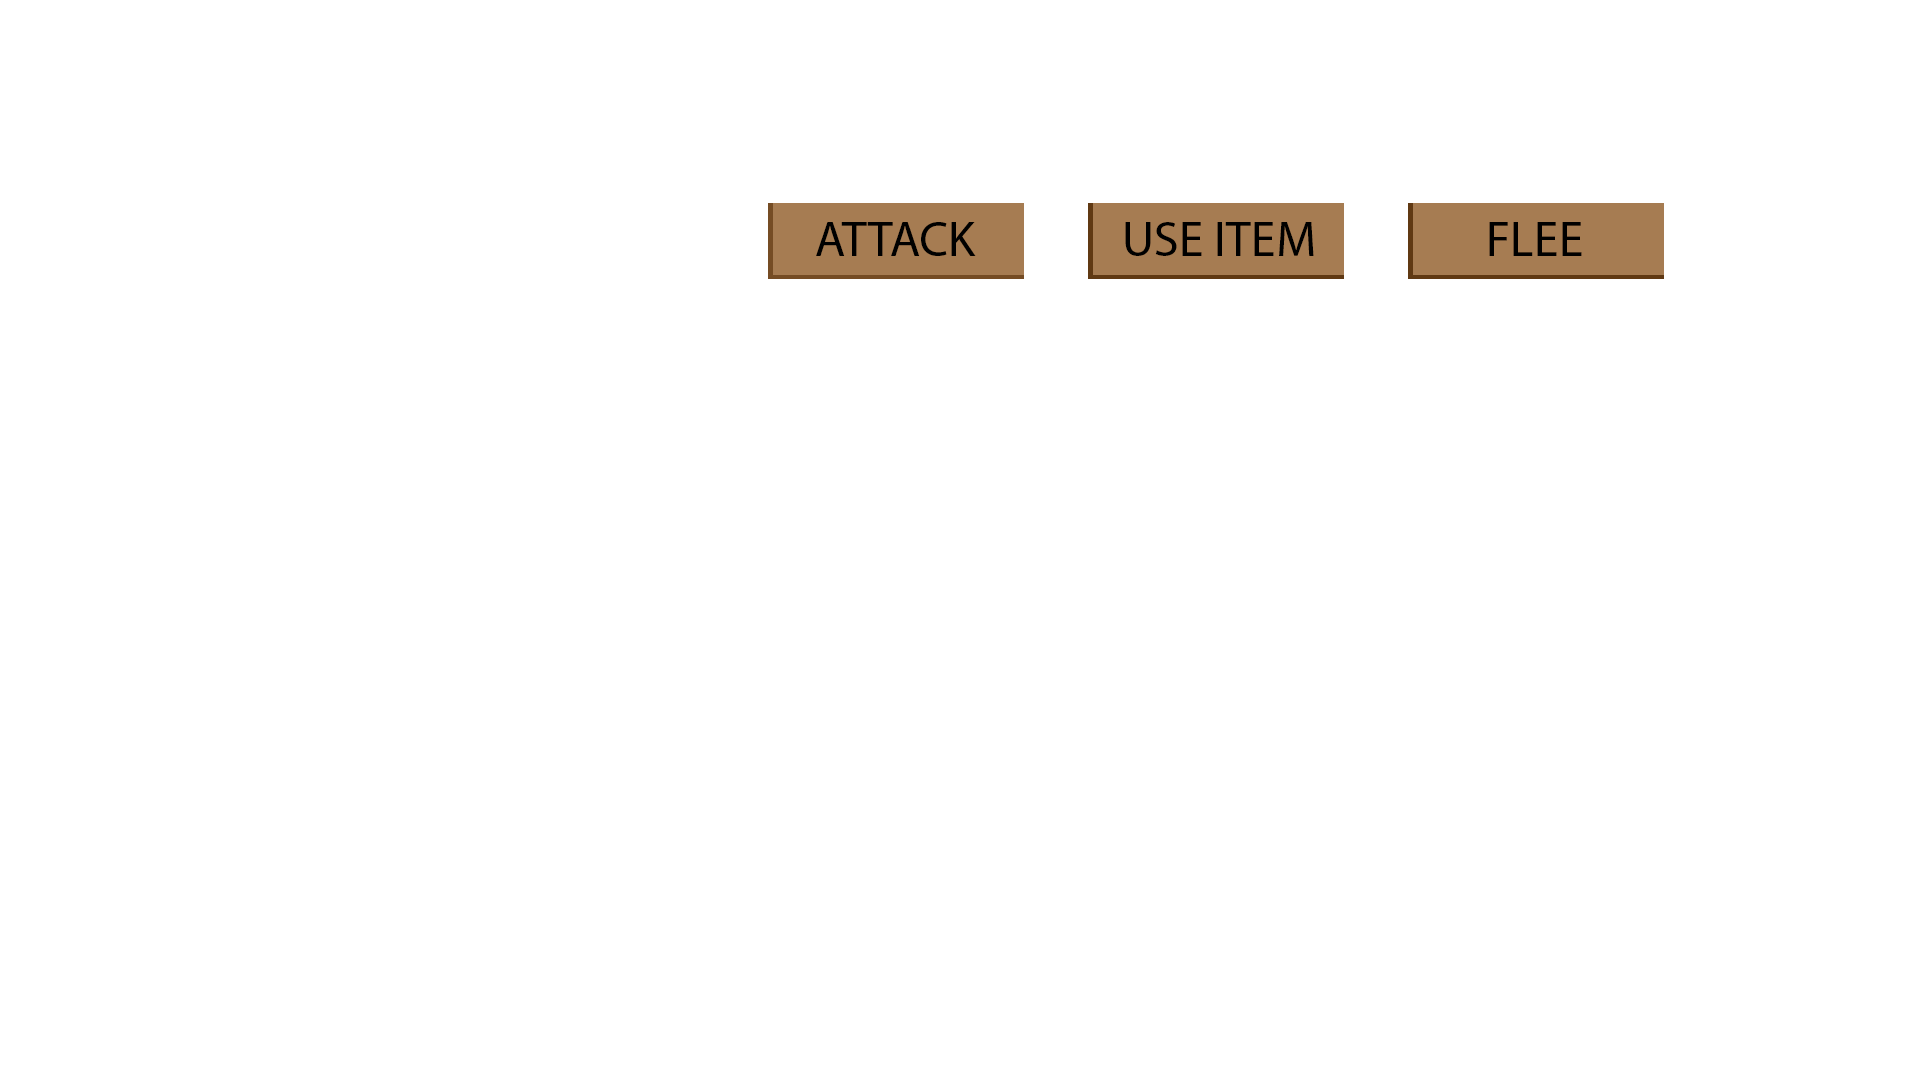
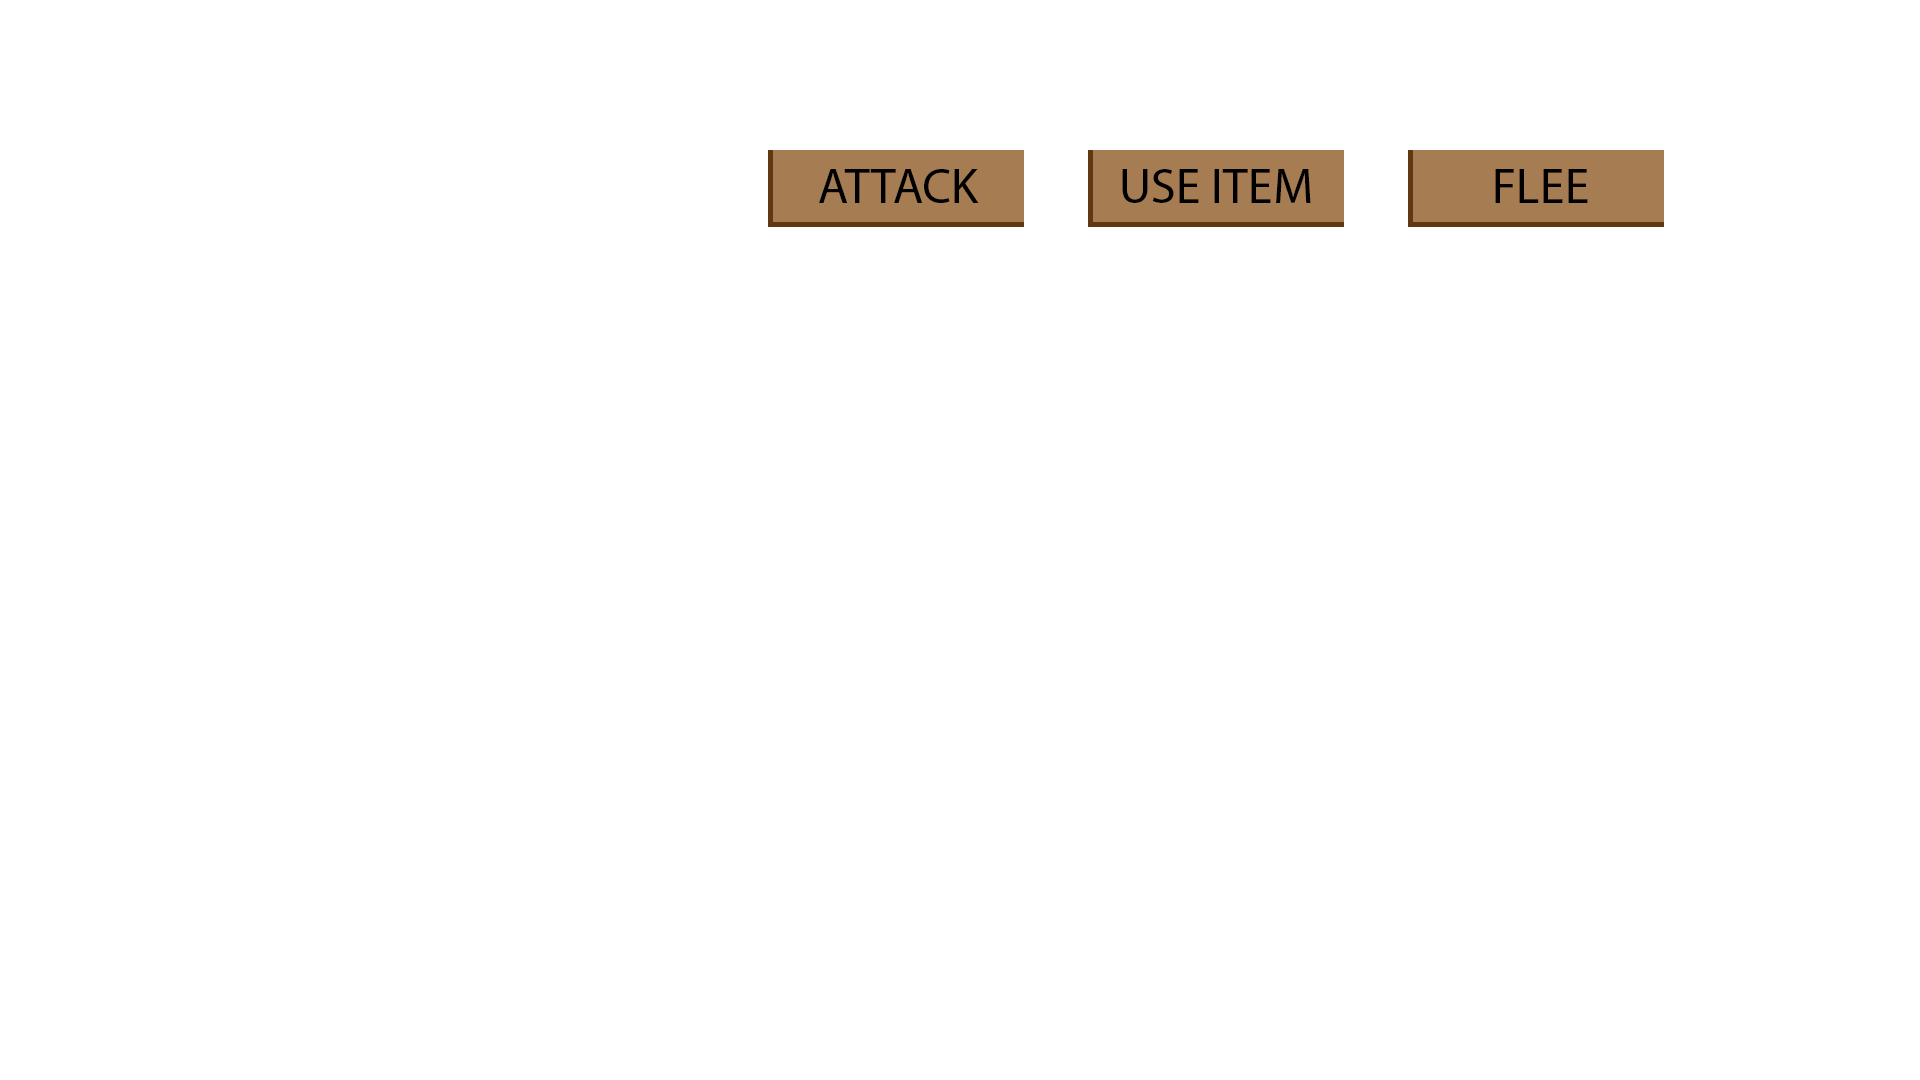
Moved the buttons up. Added a health bar for the Golbin during combat.

Changed region(s): [[0.5625, 0.1222, 0.875, 0.275], [0.375, 0.1222, 0.5312, 0.275]]

diff --git a/The Mines of Mukduk/src/game_stages/Combat.java b/The Mines of Mukduk/src/game_stages/Combat.java
@@ -92,16 +92,23 @@ public class Combat {
 			g.drawImage(Assets.combatButtons, 0, 0, GUImain.WIDTH, GUImain.HEIGHT, null);
 	
 			// Selector
-			g.drawImage(Assets.pointer, (GUImain.WIDTH * 420 / 1000) + (selected * GUImain.WIDTH * 168 / 1000), GUImain.HEIGHT * 160 / 1000, GUImain.WIDTH * 90 /1000, GUImain.HEIGHT * 26 / 1000, null);
+			g.drawImage(Assets.pointer, (GUImain.WIDTH * 420 / 1000) + (selected * GUImain.WIDTH * 168 / 1000), GUImain.HEIGHT * 110 / 1000, GUImain.WIDTH * 90 /1000, GUImain.HEIGHT * 26 / 1000, null);
 		}
-			
+		
+		// Monster health bar
+		g.setColor(Color.WHITE);
+		g.fillRoundRect(GUImain.WIDTH * 680 / 1000, GUImain.HEIGHT * 290 / 1000, (GUImain.WIDTH * 145 / 1000), GUImain.HEIGHT * 30 / 1000,  GUImain.HEIGHT * 10 / 1000,  GUImain.HEIGHT * 20 / 1000);
+		g.setColor(Color.RED);
+		g.fillRoundRect(GUImain.WIDTH * 680 / 1000, GUImain.HEIGHT * 290 / 1000, (int) ((GUImain.WIDTH * 145 / 1000) * ((double) monster.getHealth() / monster.getMaxHealth())), GUImain.HEIGHT * 30 / 1000,  GUImain.HEIGHT * 10 / 1000,  GUImain.HEIGHT * 20 / 1000);
+
 		// HUD
+		g.setColor(Color.BLACK);
 		g.drawImage(Assets.combatHUD, 0, 0, GUImain.WIDTH, GUImain.HEIGHT, null);
-		// Health
+		// Health Number
 		Text.drawStringFrom(g, player.getHealth() + "", GUImain.WIDTH * 217 / 1000, GUImain.HEIGHT * 52 / 1000, true, Color.DARK_GRAY, new Font("MonoSpaced", Font.BOLD, GUImain.HEIGHT / 24));
 		// Armor class
 		Text.drawStringFrom(g, player.getArmorClass() + "", GUImain.WIDTH * 81 / 1000, GUImain.HEIGHT / 15, true, Color.DARK_GRAY, new Font("MonoSpaced", Font.BOLD, GUImain.HEIGHT / 30));
-		// Health bar
+		// Player health bar
 		g.setColor(Color.RED);
 		g.fillRoundRect(GUImain.WIDTH * 109 / 1000, GUImain.HEIGHT * 107 / 1000, (int) ((GUImain.WIDTH * 145 / 1000) * ((double) player.getHealth() / player.getMaxHealth())), GUImain.HEIGHT * 30 / 1000,  GUImain.HEIGHT * 10 / 1000,  GUImain.HEIGHT * 20 / 1000);
 	}

diff --git a/The Mines of Mukduk/src/entities/Player.java b/The Mines of Mukduk/src/entities/Player.java
@@ -16,9 +16,7 @@ import world_gen.Map;
  * @author Dustin
  */
 public class Player extends Entity {
-	
-	private int maxHealth;
-	
+		
 	private Inventory inventory;
 	private PlayerInput playerInput;
 	private int steps;
@@ -29,9 +27,9 @@ public class Player extends Entity {
 		inventory = new Inventory();
 		playerInput = new PlayerInput(handler, this);
 		
-		maxHealth = 30;
 		health = 30;
-		
+		maxHealth = 30;
+
 		steps = 0;
 	}
 
@@ -62,14 +60,6 @@ public class Player extends Entity {
 		map.isTreasure(row, col);
 		map.isLadder(row, col);
 		map.isMonster(row, col);
-	}
-	
-	public int getMaxHealth() {
-		return maxHealth;
-	}
-
-	public void setMaxHealth(int maxHealth) {
-		this.maxHealth = maxHealth;
 	}
 	
 	public void setSteps(int steps) {

diff --git a/The Mines of Mukduk/src/entities/Entity.java b/The Mines of Mukduk/src/entities/Entity.java
@@ -27,7 +27,7 @@ public abstract class Entity {
 	protected int xPos, yPos; // Positions on the grid
 	protected ID id; // Type of entity
 	
-	protected int health;
+	protected int health, maxHealth;
 	protected int dexterity;
 	protected int strength;
 	protected int armorClass;
@@ -44,6 +44,7 @@ public abstract class Entity {
 		this.map = map;
 		
 		health = 20;
+		maxHealth = 20;
 		dexterity = 10;
 		strength = 10;
 		armorClass = 10;
@@ -160,6 +161,14 @@ public abstract class Entity {
 
 	public void setHealth(int health) {
 		this.health = health;
+	}
+	
+	public int getMaxHealth() {
+		return maxHealth;
+	}
+
+	public void setMaxHealth(int maxHealth) {
+		this.maxHealth = maxHealth;
 	}
 	
 	public int getDexterity() {

diff --git a/The Mines of Mukduk/src/gfx/Assets.java b/The Mines of Mukduk/src/gfx/Assets.java
@@ -19,6 +19,7 @@ public class Assets {
 	public static BufferedImage[] button = new BufferedImage[2];
 	public static BufferedImage alert;
 	public static BufferedImage combatHUD, combatButtons, pointer;
+	public static BufferedImage seamlessRock;
 
 	public static void init() {
 		dirt = ImageLoader.loadImage("res/Dirt.png");
@@ -37,5 +38,7 @@ public class Assets {
 		combatHUD = ImageLoader.loadImage("res/CombatGUI.png");
 		combatButtons = ImageLoader.loadImage("res/CombatButtons.png");
 		pointer = ImageLoader.loadImage("res/pointer.png");
+		
+		seamlessRock = ImageLoader.loadImage("res/Seamless Rock Texture.png");
 	}
 }

diff --git a/The Mines of Mukduk/src/entities/Monster.java b/The Mines of Mukduk/src/entities/Monster.java
@@ -16,7 +16,6 @@ public class Monster extends Entity {
 
 	public Monster(int row, int col, ID id, Handler handler, Map map) {
 		super(row, col, ID.Monster, handler, map);
-		
 	}
 
 	public void tick() {
